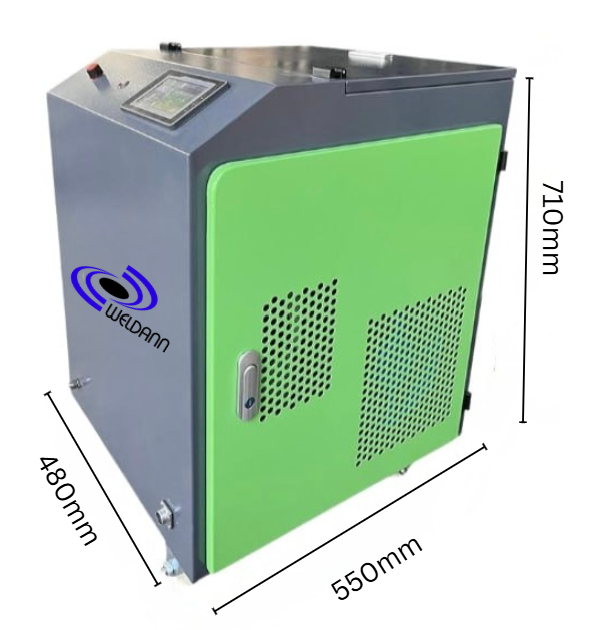
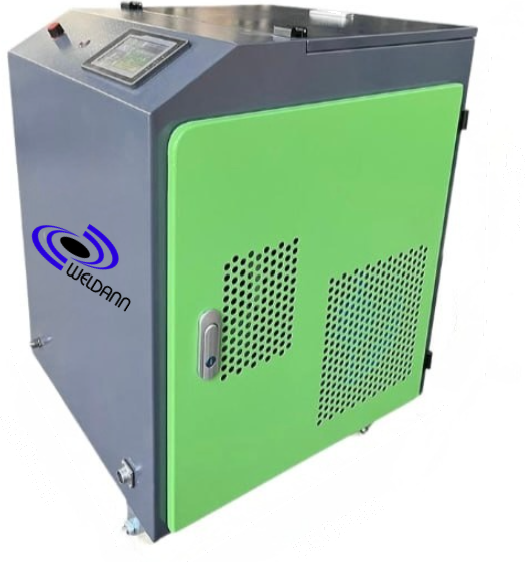
Take the dimension callouts off the two HHO shots
Both carbon cleaning machines were photographed with measuring lines,
arrows and millimetre figures drawn around them — a supplier datasheet
illustration rather than a product shot, and the only two on the page
carrying any. The marks are painted out and the frame trimmed back to
the machine.

Nothing is lost by it: the spec table on each card already gives the
same figures, 350 x 470 x 550 mm and 480 x 550 x 710 mm.

The brand filter drops its counts as well.

diff --git a/automotive/tyre-service/index.html b/automotive/tyre-service/index.html
@@ -69,8 +69,6 @@ details.specs .acch{font-size:.78rem;font-weight:700;color:var(--blue-800);text-
   cursor:pointer;transition:border-color .15s,color .15s,background .15s}
 .filterbar button:hover{border-color:var(--brand);color:var(--brand)}
 .filterbar button.on{background:var(--blue-800);color:#fff;border-color:var(--blue-800)}
-.filterbar button span{opacity:.6;font-weight:600;margin-left:.3rem}
-.filterbar button.on span{opacity:.75}
 </style>
 </head>
 <body>
@@ -147,10 +145,10 @@ details.specs .acch{font-size:.78rem;font-weight:700;color:var(--blue-800);text-
 </div>
 
 <div class="filterbar" role="group" aria-label="Filter by brand">
-  <button type="button" data-filter="hpa" class="on" aria-pressed="true">HPA-Faip <span>12</span></button>
-  <button type="button" data-filter="weldann" aria-pressed="false">WELDANN <span>5</span></button>
-  <button type="button" data-filter="hakiro" aria-pressed="false">Hakiro <span>1</span></button>
-  <button type="button" data-filter="all" aria-pressed="false">All models <span>18</span></button>
+  <button type="button" data-filter="hpa" class="on" aria-pressed="true">HPA-Faip</button>
+  <button type="button" data-filter="weldann" aria-pressed="false">WELDANN</button>
+  <button type="button" data-filter="hakiro" aria-pressed="false">Hakiro</button>
+  <button type="button" data-filter="all" aria-pressed="false">All models</button>
 </div>
 
 <div class="grouphead" data-brand="hpa"><h2>HPA-Faip &mdash; Wheel Balancers</h2><p>Six models, digital and TV-monitor, car through truck.</p></div>
